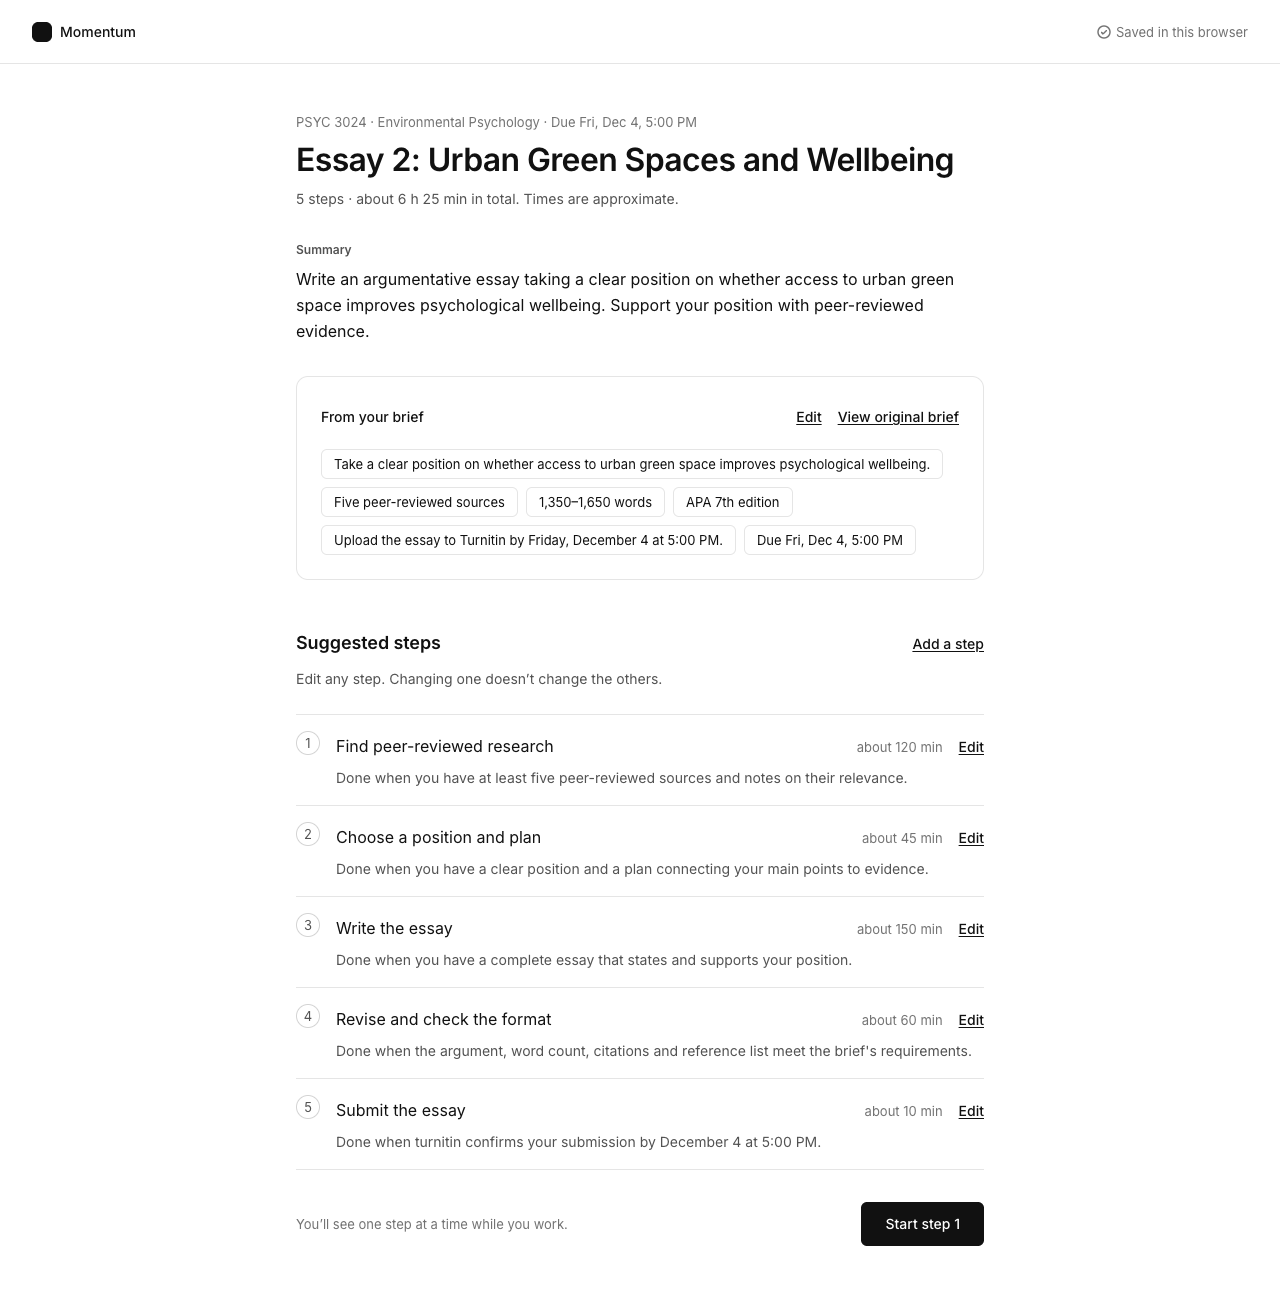
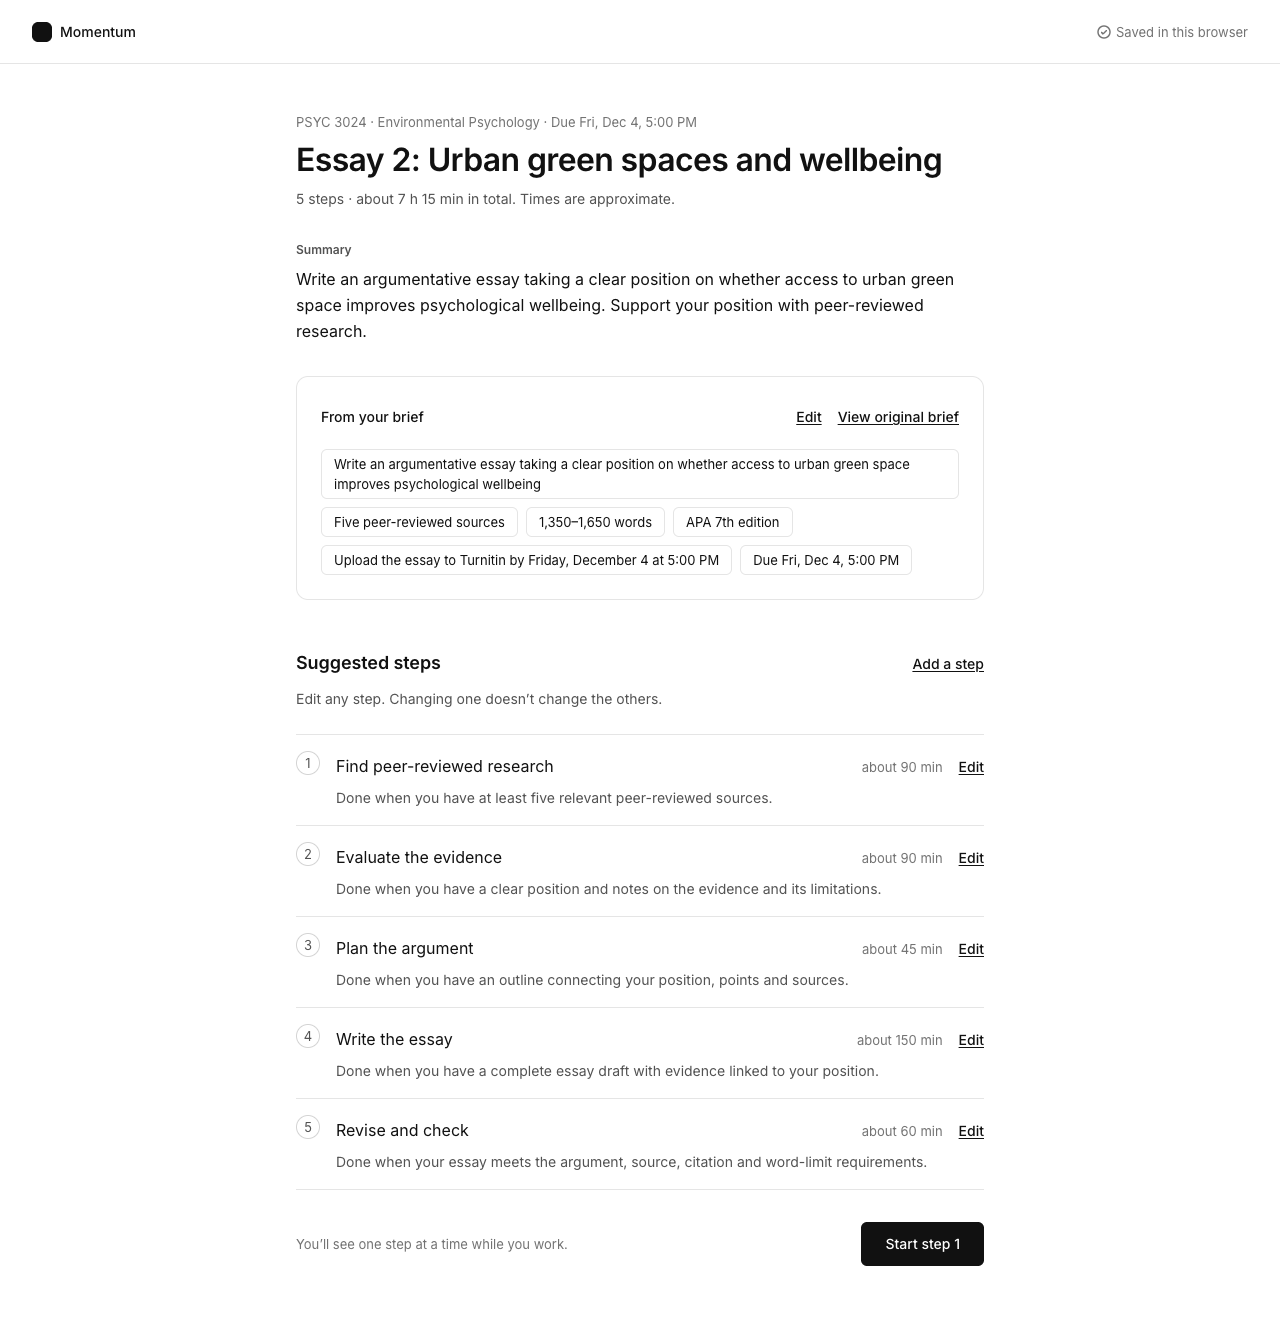
Record M4 Vercel preview checks and retake the sample plan screenshot

diff --git a/docs/status.md b/docs/status.md
@@ -9,7 +9,7 @@ Legend: **planned** (not started), **implemented** (written, not independently c
 | M1 | Foundation and working-step screen | verified and merged (PR #1) |
 | M2 | Core loop on sample data with persistence: home, working step, pause and notes, completion and undo, timer, side panels, final check, completed home, review | verified and merged (PR #2) |
 | M3 | Brief entry, building, plan review and editing, error screens, preview deploy | verified and merged (PR #3) |
-| M4 | AI generation (server-side, structured output) | implemented on branch `feat/m4-ai-generation`; **verified locally** with mocked tests and live checks 1–9 against `gpt-6.1-terra`; Vercel preview not yet checked |
+| M4 | AI generation (server-side, structured output) | implemented on branch `feat/m4-ai-generation`; **verified** locally (mocked tests, live checks 1–9 against `gpt-6.1-terra`) and on the Vercel preview (checks 1, 3, 7 and curl); PR not yet opened |
 | M5 | Evaluation (heuristic evaluation, task-based feedback) | planned |
 | M6 | Fixes from evaluation | planned |
 | M7 | Docs and case study | planned |
@@ -127,7 +127,7 @@ Screenshots in `docs/evidence/screenshots/`: `m3-brief-entry-empty`, `m3-error01
 
 ## M4
 
-Branch `feat/m4-ai-generation`, off `main` after PR #3. Not pushed, not deployed. Decisions: [decisions.md](decisions.md), section M4. Risk review: [reviews/2026-11-18-risk-generation.md](reviews/2026-11-18-risk-generation.md).
+Branch `feat/m4-ai-generation`, off `main` after PR #3. Pushed by Aidan; preview at https://momentum-git-feat-m4-ai-generation-aidan-o-driscoll.vercel.app (the branch alias, which follows the latest push; the checks below ran on commit `a7f673c`). Not merged; production still serves `main`. Decisions: [decisions.md](decisions.md), section M4. Risk review: [reviews/2026-11-18-risk-generation.md](reviews/2026-11-18-risk-generation.md).
 
 ### Built
 
@@ -157,12 +157,14 @@ Branch `feat/m4-ai-generation`, off `main` after PR #3. Not pushed, not deployed
 | Live checks 1–5 and 9 (after credit, `gpt-6.1-terra`) | **all pass**; details, briefs and actual output in [evidence/generation-checks.md](evidence/generation-checks.md). 1: sample brief → every requirement, none invented, Fri, Dec 4, 5:00 PM, substantive first. 2: lab report and reflective portfolio (development briefs) checked requirement by requirement, none missing or invented; the portfolio's final date chosen over the draft date. 3: recipe → 422, Error 02, brief kept. 4: injection → normal plan, no essay text or sources. 5: no date → no deadline; the field's date wins. 9: edit a step, complete every step (count from the plan), final check lists the plan's non-submission requirements, home "All steps done" |
 | Timings | 9 plans in **10.0–13.9 s**; recipe refused in 3.0–3.3 s |
 | After the three fixes | `npm test` 20 files, **183 tests** pass (new: full stops removed from labels and short labels; a mid-plan "Submit the draft…" step kept and a final "Submit the essay" step dropped, before IDs; 13 steps with a final Submit → 12, valid; only a Submit step → unreadable; `doneWhenSentence` keeps a proper noun's capital; `capitalizeFirst`; the two new instruction lines). Lint, tsc, build and `check:bundle` pass. Live, 2 requests (sample and portfolio briefs, 14.9 s and 13.7 s): every criterion starts lowercase, no label ends in a full stop, no Submit step. No criterion started with a proper noun in these runs, so that case is checked by unit test only |
+| Vercel preview (2026-11-18, `a7f673c`, Chrome via Playwright) | curl: no body → **400**; 13,000 characters → **413** `{"reason":"tooLong"}`; GET → 405. The page shows the disclosure line. **Check 1**: sample brief → plan in **14.9 s**, every requirement, none invented, Fri, Dec 4, 5:00 PM, criteria lowercase, no final full stops, no Submit step. **Portfolio brief rerun**: 200 in **18.1 s**; the draft-for-feedback step is back ("Send the draft for feedback", step 5 of 6), and the revision step starts with reviewing the feedback. **Check 3**: recipe → Error 02 in 3.3 s, brief kept. **Check 7**: requests 3–6 from one IP in 10 minutes answered 422, 422, 422, then **429** → Error 03. No page errors |
 
-Screenshots in `docs/evidence/screenshots/`: `m4-brief-entry` (full page, with the disclosure line), `m4-near-limit-count`, `m4-building`, `m4-plan-review-sample`, `m4-plan-review-second`, `m4-error02-recipe`.
+Screenshots in `docs/evidence/screenshots/`: `m4-brief-entry` (full page, with the disclosure line), `m4-near-limit-count`, `m4-building`, `m4-plan-review-sample` (retaken on the preview after the fixes), `m4-plan-review-second`, `m4-error02-recipe`.
 
 ### Not verified
 
-- **The Vercel preview:** checks 1, 3 and 7 and the curl checks, after Aidan pushes.
+- Live check 9 (end to end) and checks 2, 4 and 5 were run locally, not on the preview.
+- The narrowed Submit backstop has not been triggered by real output: no plan since the fix had a last step titled "Submit…". It is covered by unit tests.
 - Safari, Firefox and screen readers (live regions checked in the DOM only).
 
 ### Known limitations

diff --git a/docs/evidence/generation-checks.md b/docs/evidence/generation-checks.md
@@ -195,7 +195,7 @@ Browser, sample brief, fresh storage: review → Edit step 2, change its title, 
 ### Variation and small issues seen
 
 - **Output varies between runs.** The sample brief gave 6, 5 and 6 steps in three runs, with different titles and estimates (6 h 50 min and 6 h 25 min shown). One browser run title-cased the plan title ("Urban Green Spaces and Wellbeing"); one wrote "Analyse" where the script run wrote "Analyze".
-- **"Done when turnitin confirms…"**: `doneWhenSentence` lowercases the first letter of Done when, so a criterion that starts with a proper noun loses its capital. The hand-written sample never started with one. See `m4-plan-review-sample.png`.
+- **"Done when turnitin confirms…"**: `doneWhenSentence` lowercases the first letter of Done when, so a criterion that starts with a proper noun loses its capital. The hand-written sample never started with one. (Fixed later the same day; the screenshot that showed it was replaced by the preview one below.)
 - **Full stops in chips.** Generated labels are sentences ending in "."; chips without a short label show them as written (substantive and submission chips).
 
 ### Screenshots
@@ -213,6 +213,22 @@ Aidan's fixes from the issues above: criteria start lowercase unless they begin 
 
 No criterion started with a proper noun in either run, so "Turnitin confirms…" keeping its capital is checked by unit test only.
 
-## Still to run
+## 2026-11-18: Vercel preview
 
-The Vercel preview, once Aidan pushes: checks 1, 3 and 7, plus the curl checks (400 and 413).
+https://momentum-git-feat-m4-ai-generation-aidan-o-driscoll.vercel.app, commit `a7f673c` (with the narrowed Submit rule), Chrome via Playwright from Aidan's laptop. Times from the calling script; network to Vercel included. 6 model requests and 3 curl checks.
+
+| Check | Result | Time |
+| --- | --- | --- |
+| curl, POST with no body | 400 | — |
+| curl, 13,000-character brief | 413 `{"reason":"tooLong"}` | — |
+| curl, GET | 405 | — |
+| 1. Sample brief (browser) | 200, plan review; Fri, Dec 4, 5:00 PM | **14.9 s** |
+| Portfolio brief rerun (script) | 200 | **18.1 s** |
+| 3. Recipe (browser) | 422, Error 02; Edit the brief keeps the recipe | **3.3 s** |
+| 7. Requests 4–6 from the same IP (recipe, then Try again ×2) | 422, 422, then **429** → Error 03 (the 6th request in 10 minutes) | — |
+
+**Sample brief** (5 steps, about 7 h 15 min): substantive "Write an argumentative essay taking a clear position on whether access to urban green space improves psychological wellbeing"; format "Support your position with at least five peer-reviewed sources", "Write 1,500 words, plus or minus 10%; the reference list does not count toward the word limit", "Use APA 7th edition, including in-text citations and a reference list"; submission "Upload the essay to Turnitin by Friday, December 4 at 5:00 PM". All criteria start lowercase, no label ends in a full stop, no Submit step. Screenshot: `m4-plan-review-sample.png` (retaken here; replaces the pre-fix one).
+
+**Portfolio brief** (6 steps): all requirements from the local run are present (split slightly differently: Gibbs and APA are listed on their own lines); both dates kept as submission reminders, deadline `2026-12-15T12:00`. The interim step is back: step 5 "Send the draft for feedback" (15 min, "you have handed in the first draft for peer feedback."), then "Revise and check the portfolio", whose first action is "Review the peer feedback and revise where useful." The step isn't titled "Submit…", so it came from the reworded instructions, not from the narrower backstop.
+
+Preview plans took 14.9 and 18.1 s, a little slower than the local 10.0–14.9 s.

diff --git a/docs/decisions.md b/docs/decisions.md
@@ -236,7 +236,7 @@ From [reviews/2026-11-18-risk-generation.md](reviews/2026-11-18-risk-generation.
 
 ### Open for Aidan
 
-- **Building copy:** revisit after the preview timings (above).
+- **Building copy:** preview timings were 14.9 s (sample) and 18.1 s (portfolio), and 3.3 s for the recipe; local plans took 10.0–14.9 s. "About 15 seconds" would undersell the 18 s run; "under a minute" held for every run. Aidan's call.
 - **How to hide "Use a sample brief"** for M5: at the start of M5.
 - (Claude Code) **Seen in one live run before the filter was narrowed:** the reflective portfolio plan had no step for reading peer feedback between the first draft and the final revision. The narrower rule allows that step again; not yet re-run live.
 
